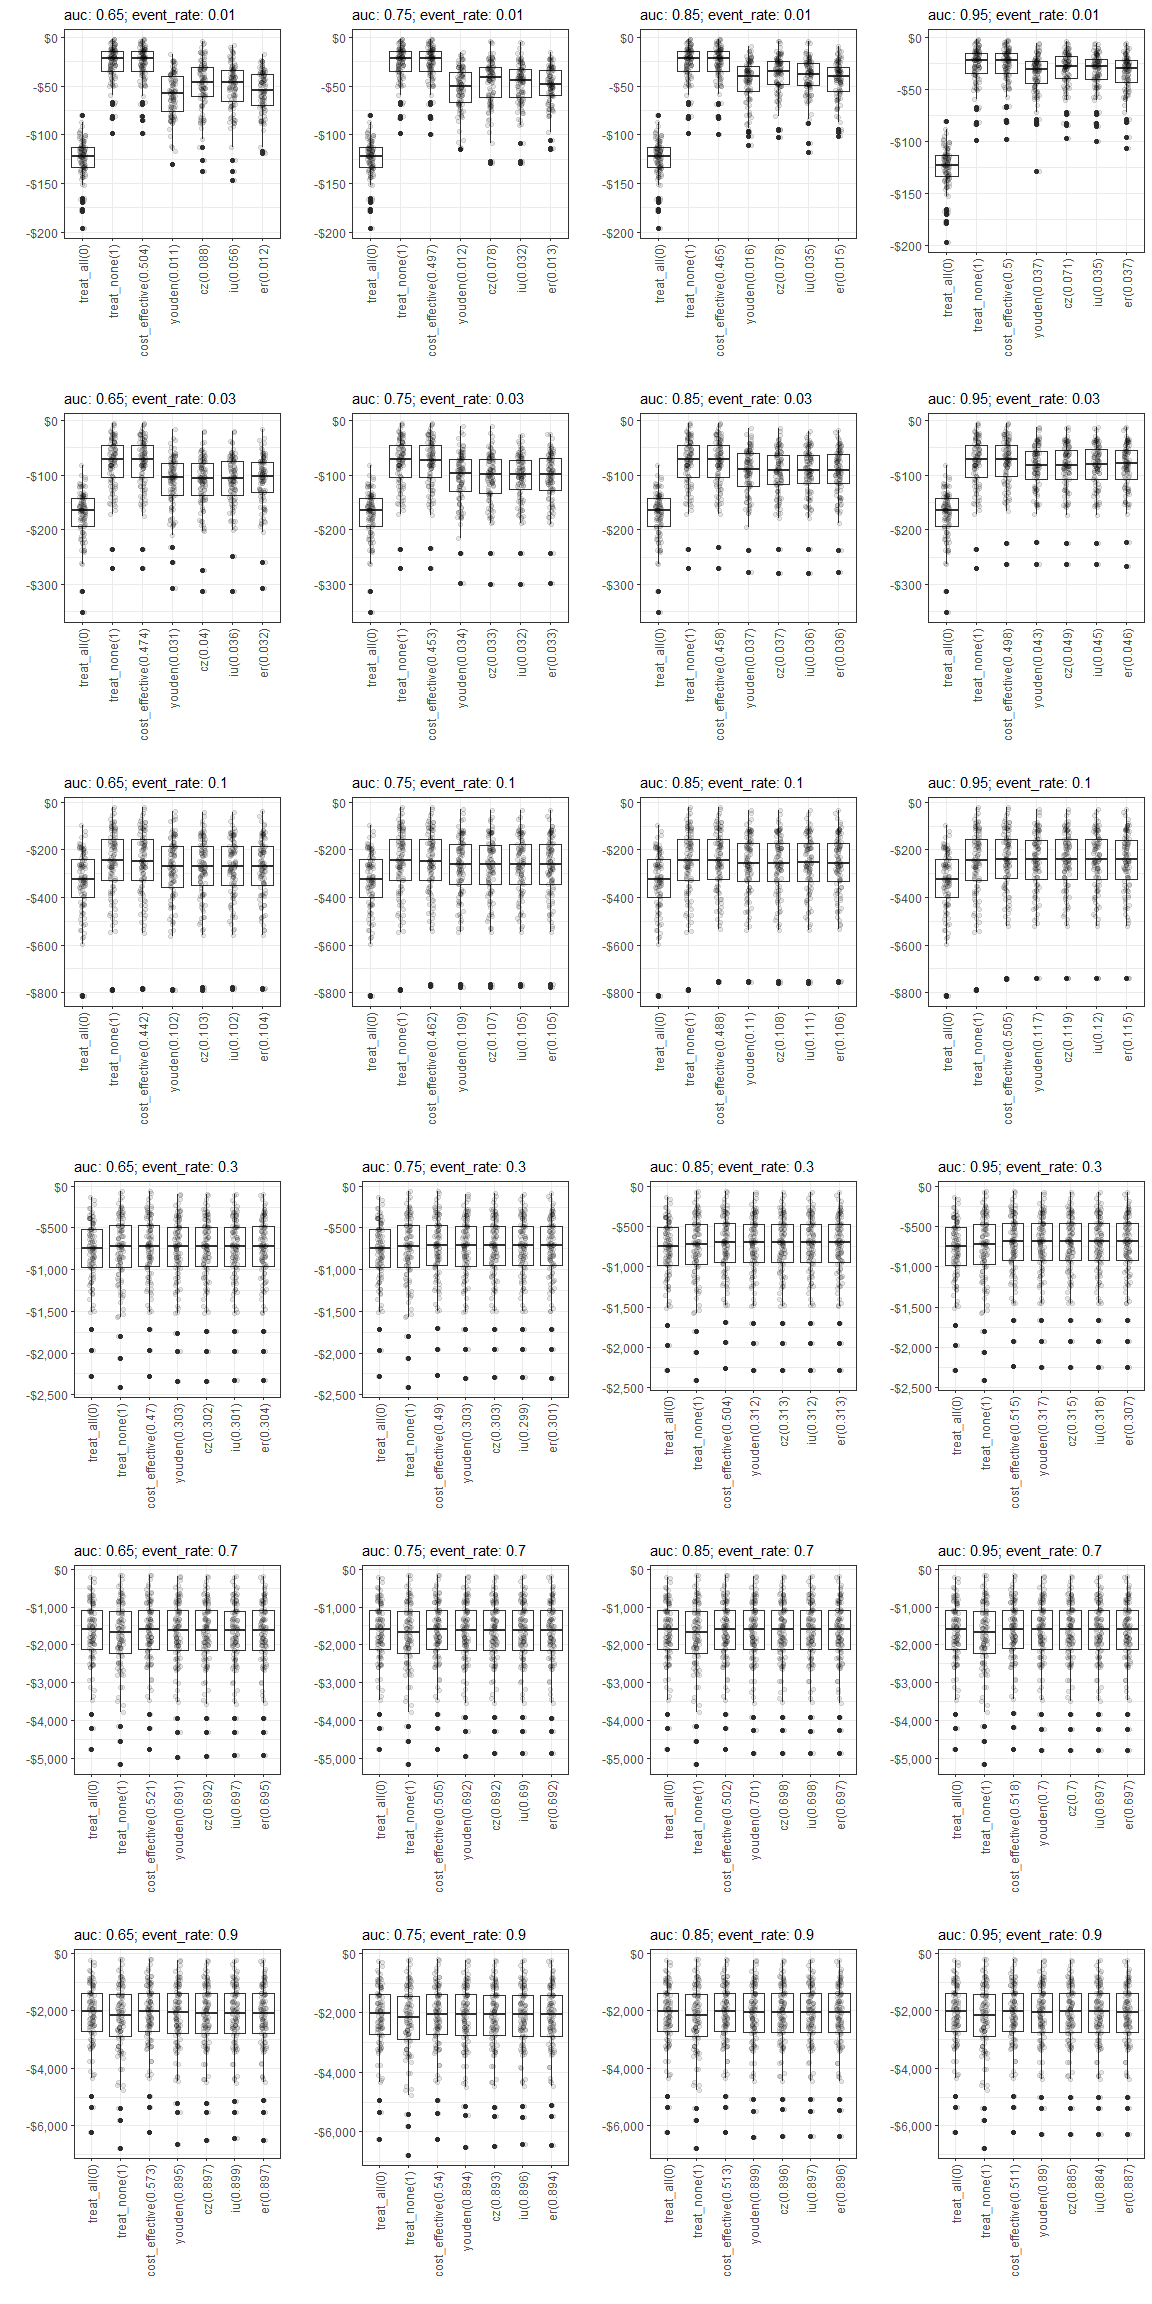
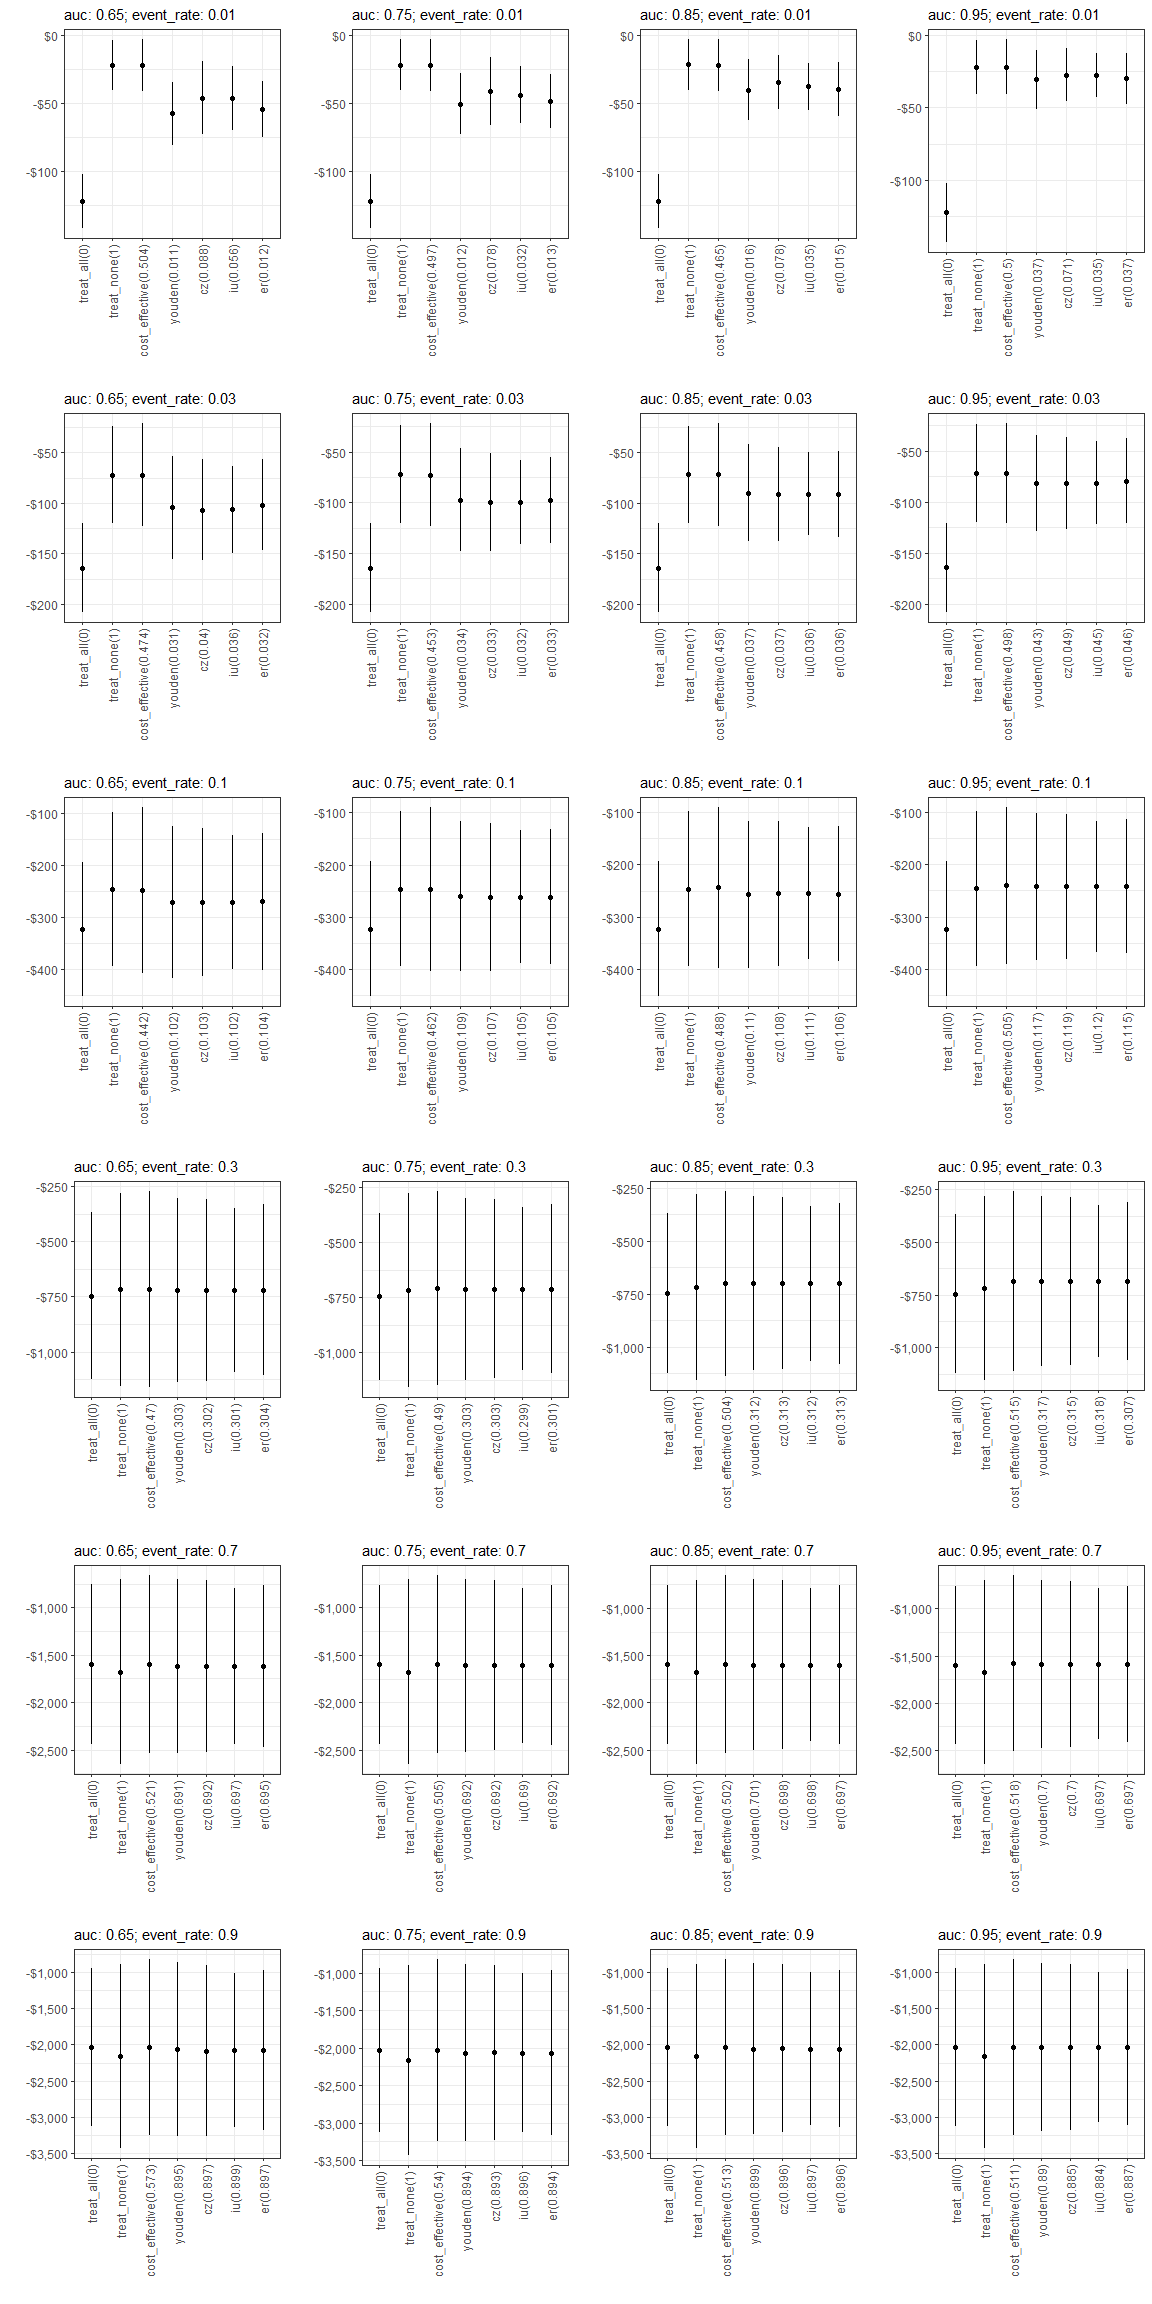
plot median and bootstrapped standard error instead of boxplot

diff --git a/experiment_1.md b/experiment_1.md
@@ -1,6 +1,6 @@
 Experiment 1
 ================
-21 February, 2022
+22 February, 2022
 
 Question: What are the differences in NMB between models where the
 Probability threshold was based on the currently available methods
@@ -78,7 +78,10 @@ get_nmb()
 ### Run simulation
 
 ``` r
-do_simulation <- function(sample_size, n_sims, n_valid, sim_auc, event_rate, fx_costs, resample_values=TRUE, get_what=c("data", "plot"), seed=42){
+do_simulation <- function(sample_size, n_sims, n_valid, sim_auc, event_rate, 
+                          fx_costs, resample_values=TRUE, 
+                          get_what=c("data", "plot"), plot_type="boxplot",
+                          seed=42){
   if(!is.null(seed)) set.seed(seed)
   df_result <- data.frame()
   df_thresholds <- data.frame()
@@ -151,24 +154,67 @@ do_simulation <- function(sample_size, n_sims, n_valid, sim_auc, event_rate, fx_
   df_plot <- df_result
   names(df_plot)[-1] <- method_levels <- paste0(names(df_plot)[-1], "(", pts, ")")
   
-  p <- 
-    df_plot %>%
-    pivot_longer(!n_sim, names_to="method", values_to="cost") %>%
-    mutate(method=str_remove(method, "_cost"),
-           method=factor(method, levels=str_remove(method_levels, "_cost"))) %>%
+  if(plot_type=="boxplot"){
+    p <- 
+      df_plot %>%
+      pivot_longer(!n_sim, names_to="method", values_to="nmb") %>%
+      mutate(method=str_remove(method, "_cost"),
+             method=factor(method, levels=str_remove(method_levels, "_cost"))) %>%
+      
+      ggplot(aes(method, nmb)) +
+      geom_boxplot() +
+      geom_jitter(alpha=0.1, width=0.1) +
+      theme_bw() +
+      labs(
+        # y="Mean cost per patient",
+        # x="Probability threshold selection method",
+        y="", x="",
+        subtitle=glue::glue("auc: {sim_auc}; event_rate: {event_rate}")
+      ) +
+      scale_y_continuous(labels=scales::dollar_format()) +
+      theme(axis.text.x = element_text(angle = 90, vjust = 0.5, hjust=1))
+  }else{
+    get_medians <- function(x, nboot=500){
+      m <- median(x)
+      
+      boots <- map_dbl(
+        1:nboot, 
+        function(v){
+          s <- sample(x, size=length(v), replace=T)
+          median(s)
+        }
+      )
+      list(median=m, median_se=sd(boots))
+    }
     
-    ggplot(aes(method, cost)) +
-    geom_boxplot() +
-    geom_jitter(alpha=0.1, width=0.1) +
-    theme_bw() +
-    labs(
-      # y="Mean cost per patient",
-      # x="Probability threshold selection method",
-      y="", x="",
-      subtitle=glue::glue("auc: {sim_auc}; event_rate: {event_rate}")
-    ) +
-    scale_y_continuous(labels=scales::dollar_format()) +
-    theme(axis.text.x = element_text(angle = 90, vjust = 0.5, hjust=1))
+    df_plot2 <- 
+      df_plot %>%
+      pivot_longer(!n_sim, values_to="nmb", names_to="method")
+    
+    
+    df_plot2 <- as.data.table(df_plot2)[
+      ,
+      get_medians(x=nmb),
+      by = list(method)
+    ]
+    
+    p <-
+      df_plot2 %>%
+      mutate(method=str_remove(method, "_cost"),
+             method=factor(method, levels=str_remove(method_levels, "_cost"))) %>%
+      ggplot(aes(method, median)) +
+      geom_point() +
+      geom_errorbar(aes(ymin=median-median_se, ymax=median+median_se, width=0)) +
+      theme_bw() +
+      labs(
+        # y="Mean cost per patient",
+        # x="Probability threshold selection method",
+        y="", x="",
+        subtitle=glue::glue("auc: {sim_auc}; event_rate: {event_rate}")
+      ) +
+      scale_y_continuous(labels=scales::dollar_format()) +
+      theme(axis.text.x = element_text(angle = 90, vjust = 0.5, hjust=1))
+  }
   
   if(length(get_what)==1){
     if(get_what=="data"){return(df_result)}
@@ -178,7 +224,10 @@ do_simulation <- function(sample_size, n_sims, n_valid, sim_auc, event_rate, fx_
   }
 }
 
-# do_simulation(sample_size=500, n_sims=20, n_valid=1000, sim_auc=0.65, event_rate=0.03, fx_costs=get_nmb, resample_costs=TRUE, get_what=c("data", "plot"))
+# do_simulation(
+#   sample_size=500, n_sims=50, n_valid=500, sim_auc=0.65, event_rate=0.03, 
+#   fx_costs=get_nmb, resample_values=TRUE, get_what=c("data", "plot"), plot_type = "point"
+# )
 
 # p_list <- lapply(c(0.03, 0.1, 0.5, 0.9, 0.97), function(x)do_simulation(sample_size=500, n_sims=100, n_valid=1000, sim_auc=0.65, event_rate=x, fx_costs=get_costs, get_what="plot"))
 # p_list
@@ -211,6 +260,7 @@ clusterExport(cl, {
 
 invisible(clusterEvalQ(cl, {
   library(tidyverse)
+  library(data.table)
   source("src/utils.R")
 }))
 
@@ -221,7 +271,8 @@ ll1 <- parallel::parLapply(
   function(i) do_simulation(
     sample_size=500, n_sims=100, n_valid=1000,
     sim_auc=g$sim_auc[i], event_rate=g$event_rate[i],
-    fx_costs=get_nmb, get_what="plot", resample_values=TRUE
+    fx_costs=get_nmb, get_what="plot", resample_values=TRUE,
+    plot_type="point"
   )
 )
 
@@ -231,7 +282,8 @@ ll2 <- parallel::parLapply(
   function(i) do_simulation(
     sample_size=500, n_sims=100, n_valid=1000,
     sim_auc=g$sim_auc[i], event_rate=g$event_rate[i],
-    fx_costs=get_nmb, get_what="plot", resample_values=FALSE
+    fx_costs=get_nmb, get_what="plot", resample_values=FALSE,
+    plot_type="point"
   )
 )
 
